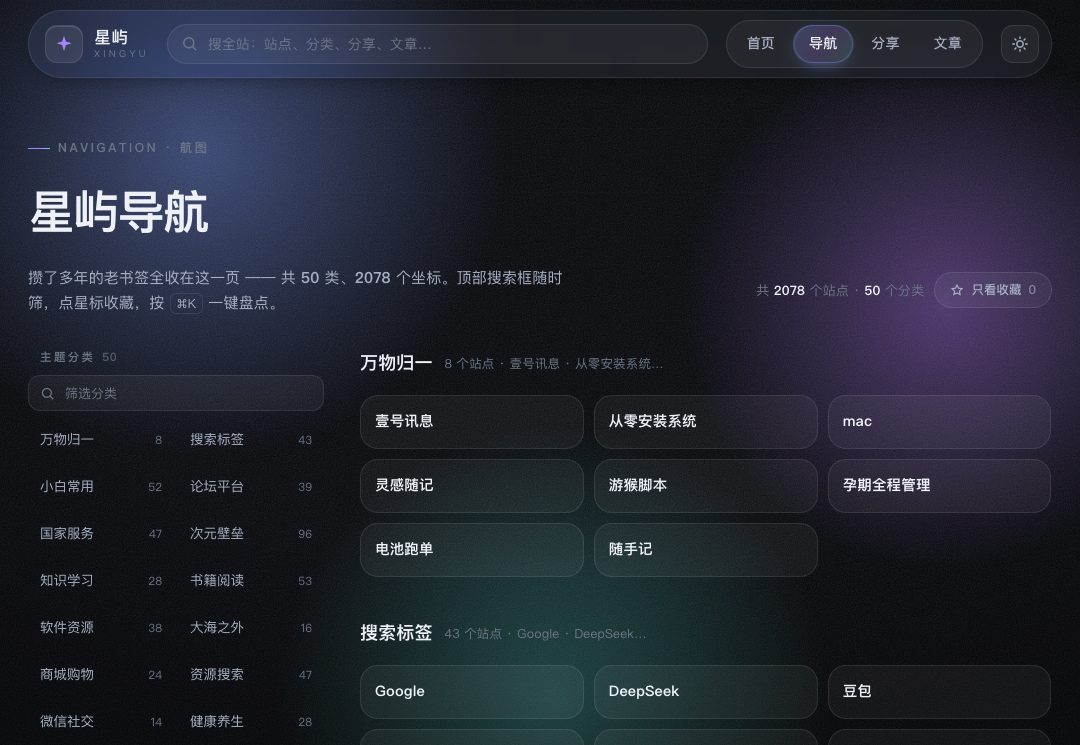
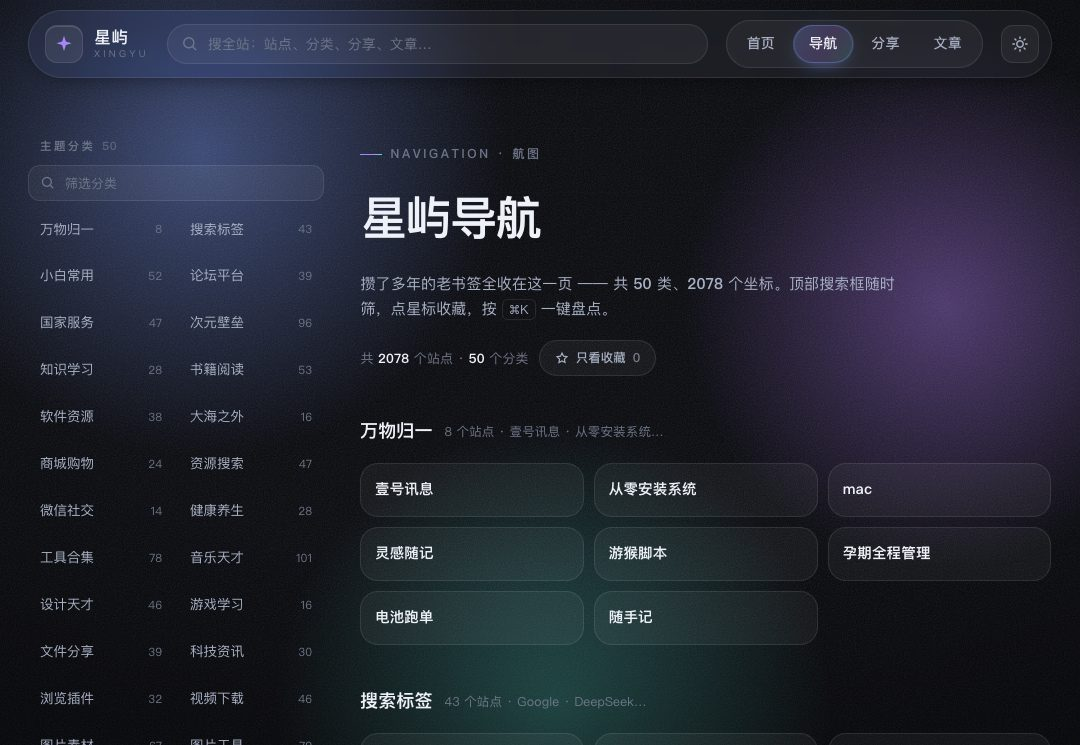
导航页标题区挪进右侧内容栏、与卡片左边缘对齐，分类栏顶到页面顶端
- renderNav 把 page-head 放进 .nav-layout，用 grid-template-areas 摆位（DOM 顺序仍是 标题→分类栏→正文）
- 左栏从页面顶端开始（原来上方被标题占着），右栏 = 标题 + 卡片，标题与卡片左边缘严格对齐
- 窄屏单栏、搜索/收藏结果（solo）各自单独摆位，避免多出一行空行
- 重拍 docs/screenshots/02-nav.jpg，README 补一句布局说明

diff --git a/assets/css/style.css b/assets/css/style.css
@@ -712,11 +712,25 @@ html[data-theme="light"] .btn--primary{ color:#fff; }
 .searchbox__clear svg{ position:static; width:13px; height:13px; stroke:currentColor; fill:none; stroke-width:2; }
 .searchbox.has-value .searchbox__clear{ display:grid; }
 
+/* 导航页两栏：左「分类栏」、右「标题 + 卡片」。
+   标题区不再横跨整页摆在最上面，而是放进右栏顶端 —— 这样它跟卡片左边缘对齐，
+   左栏空出来的上方位置正好让分类栏顶上去（分类栏从页面顶端开始，一直吸顶）。
+   用 grid-template-areas 命名摆位，DOM 顺序仍是 标题 → 分类栏 → 正文，
+   读屏和手机端拿到的顺序不变。 */
 .nav-layout{
   display:grid; grid-template-columns:clamp(300px,23vw,410px) minmax(0,1fr);
-  gap:clamp(18px,3vw,34px); margin-top:6px; align-items:start;
+  grid-template-areas:
+    "rail head"
+    "rail body";
+  column-gap:clamp(18px,3vw,34px); row-gap:0;
+  margin-top:6px; align-items:start;
 }
-.nav-layout--solo{ grid-template-columns:minmax(0,1fr); margin-top:26px; }
+.nav-layout > .cat-rail{ grid-area:rail; }
+.nav-layout > .nav-body{ grid-area:body; }
+.nav-layout > .page-head--nav{ grid-area:head; }
+/* 搜索/收藏结果：没有分类栏，单栏铺满，标题回到页宽左边缘。
+   选择器写成两个类，是为了压过下面窄屏那条 .nav-layout 的摆位（否则会多出一行空行） */
+.nav-layout.nav-layout--solo{ grid-template-columns:minmax(0,1fr); grid-template-areas:"body"; margin-top:26px; }
 /* 分类栏：双列；分类很多时整栏自己滚动，顶部还有筛选框 */
 .cat-rail{
   position:sticky; top:calc(var(--header-h, 96px) + 16px);
@@ -1242,7 +1256,14 @@ html[data-theme="light"] .tl-date{ box-shadow:0 14px 34px -22px rgba(30,40,70,.3
   .bento__item{ grid-column:span 3; }
   .bento__item:last-child{ grid-column:span 6; }
   .bento__item--wide{ grid-column:span 6; }
-  .nav-layout{ grid-template-columns:1fr; }
+  /* 单栏：分类栏在手机端被「顶栏分类按钮 + 底部面板」取代，这里只剩标题和卡片 */
+  .nav-layout{
+    grid-template-columns:1fr;
+    grid-template-areas:
+      "rail"
+      "head"
+      "body";
+  }
   /* 分类栏：手机上整栏收起，分类靠顶栏那个「分类」按钮 + 底部面板切换 */
   .cat-rail{
     position:static; max-height:none; overflow:visible;

diff --git a/index.html b/index.html
@@ -43,7 +43,7 @@
 <meta name="mobile-web-app-capable" content="yes" />
 <!-- 订阅源：分享页的更新 -->
 <link rel="alternate" type="application/rss+xml" title="星屿 · 灵感与文章" href="feed.xml" />
-<link rel="stylesheet" href="assets/css/style.css?v=89" />
+<link rel="stylesheet" href="assets/css/style.css?v=90" />
 </head>
 <body>
 
@@ -202,11 +202,11 @@
 
 <div class="toast" id="toast" role="status" aria-live="polite"></div>
 
-<script src="assets/js/config.js?v=89"></script>
-<script src="assets/js/bookmarks.js?v=89"></script>
-<script src="assets/js/data.js?v=89"></script>
-<script src="assets/js/md.js?v=89"></script>
-<script src="assets/js/app.js?v=89"></script>
-<script src="assets/js/admin.js?v=89"></script>
+<script src="assets/js/config.js?v=90"></script>
+<script src="assets/js/bookmarks.js?v=90"></script>
+<script src="assets/js/data.js?v=90"></script>
+<script src="assets/js/md.js?v=90"></script>
+<script src="assets/js/app.js?v=90"></script>
+<script src="assets/js/admin.js?v=90"></script>
 </body>
 </html>

diff --git a/assets/js/app.js b/assets/js/app.js
@@ -528,8 +528,11 @@
         '</div>';
     }).join('');
 
-    return '<section class="page">' + head +
-      '<div class="nav-layout">' + rail +
+    /* 标题区（head）放进 .nav-layout 里，交给 CSS grid 摆到右侧内容栏顶端 ——
+       这样它跟卡片的左边缘对齐，左边那列空出来的位置正好让分类栏顶上去。
+       DOM 顺序保持 head → 分类栏 → 正文：读屏和手机端仍是「先标题后内容」。 */
+    return '<section class="page">' +
+      '<div class="nav-layout">' + head + rail +
         '<div class="nav-body">' + (recentHtml === undefined ? recentBlockHtml() : recentHtml) + blocks + '</div>' +
       '</div></section>';
   }

diff --git a/sw.js b/sw.js
@@ -10,7 +10,7 @@
 
    ⚠ 发布新版本时，把 VERSION 和 index.html 里的 ?v= 一起改。
    ========================================================================= */
-var VERSION = 'v89';
+var VERSION = 'v90';
 var CACHE = 'xingyu-' + VERSION;
 
 /* 断网兜底：至少这几个文件必须是可用的 */

diff --git a/README.md b/README.md
@@ -500,7 +500,7 @@ git push
 - **云备份** —— 站点数据 + 设置 + 收藏 + 最近访问 存进自己的私有 GitHub Gist，换设备一键恢复
 - **PWA / 离线可用** —— 能「添加到主屏幕」当 App 用，断网也能打开已访问过的内容
 - **RSS 订阅** —— `feed.xml` 输出「分享」页最新 20 条，页脚有入口
-- **分类栏不再怕分类多** —— 分类超过 8 个时出现**「筛选分类」输入框**，边打字边缩小范围（名字 / 图标 / 描述都能命中，回车直达第一个）；窄屏（≤960px）下分类栏整栏收起，改为**顶栏里一个「分类」按钮**（显示当前所在分类，滚动时自动跟着变）——点开是**底部选择面板**：带筛选框、可滚动，分类上百也只是面板里滑一滑，选完自动跳转并收起；桌面端分类栏高度锁在一屏内、内部滚动，当前分类整条高亮（无多余小圆点）。另外手机端链接卡片改成**一行两个**，并且**不带左侧图标**（手机端卡片是上下结构，图标开关只影响电脑端），同样一块屏能看到两倍内容
+- **分类栏不再怕分类多** —— 分类超过 8 个时出现**「筛选分类」输入框**，边打字边缩小范围（名字 / 图标 / 描述都能命中，回车直达第一个）；窄屏（≤960px）下分类栏整栏收起，改为**顶栏里一个「分类」按钮**（显示当前所在分类，滚动时自动跟着变）——点开是**底部选择面板**：带筛选框、可滚动，分类上百也只是面板里滑一滑，选完自动跳转并收起；桌面端分类栏高度锁在一屏内、内部滚动，当前分类整条高亮（无多余小圆点）；分类栏还从**页面顶端**开始（跟标题同一高度），标题区让到右边内容栏顶端、跟卡片左边缘对齐，左上角不再空一块。另外手机端链接卡片改成**一行两个**，并且**不带左侧图标**（手机端卡片是上下结构，图标开关只影响电脑端），同样一块屏能看到两倍内容
 - **手机端长按链接卡片** —— 手机端卡片右上角的 ☆收藏 / ⧉复制 图标也去掉了，改为**长按卡片**弹出小菜单（收藏 / 复制链接），屏幕更干净，功能不丢
 - **顶栏自定义链接** —— 后台里最多添加 5 个自己的常用链接（图标可选：emoji 或纯文字），常驻顶栏、一键直达；宽屏在搜索框右侧，**手机端收进顶栏右上角**（紧挨主题按钮，不再单独占一行，链接多时可横向滑动）
 - **图标挑选器** —— 后台内置 emoji 面板，点一下就换图标；留空则不显示图标、只显示名称
